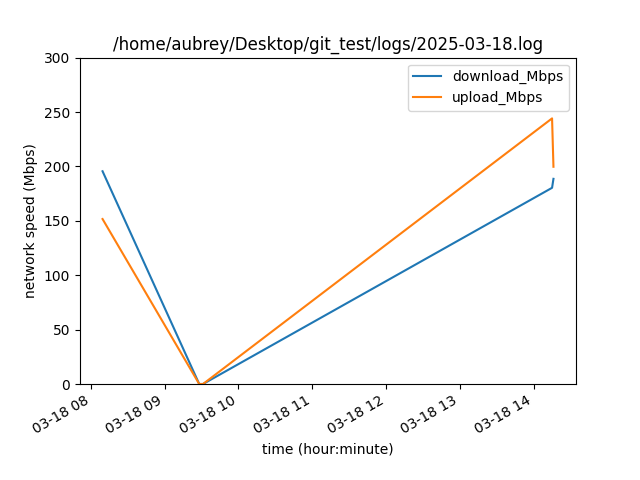
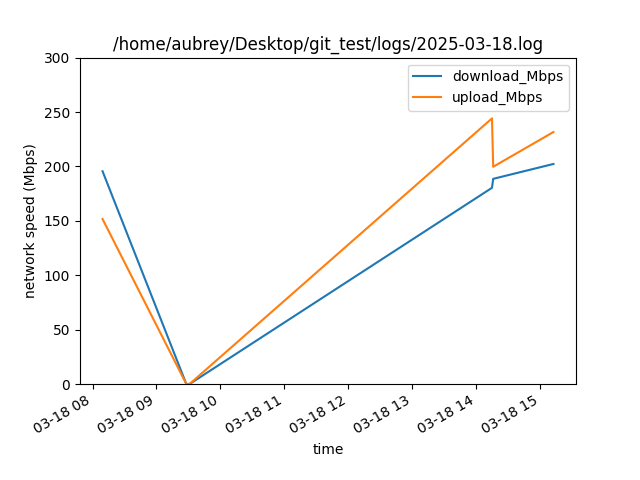
added by gitpush.sh

diff --git a/test.py b/test.py
@@ -37,15 +37,15 @@ df['download_Mbps'] = df['download_Mbps'].astype(float)
 df['upload_Mbps'] = df['upload_Mbps'].astype(float)
 ic(df)
 
-xformatter = md.DateFormatter('%H:%M')
+# xformatter = md.DateFormatter('%H:%M')
 # Plot the data and save as PNG
 df.plot(
     x='timestamp',
     y=['download_Mbps', 'upload_Mbps'],
     ylim=[0,300],
     title=LOG_PATH,
-    xlabel='time (hour:minute)',
-    ylabel='network speed (Mbps)',
-    xformatter='xformatter'
+    xlabel='time',
+    ylabel='network speed (Mbps)'
 );
+plt.gcf().autofmt_xdate()
 plt.savefig(LOG_PATH.replace('.log', '.png'))
